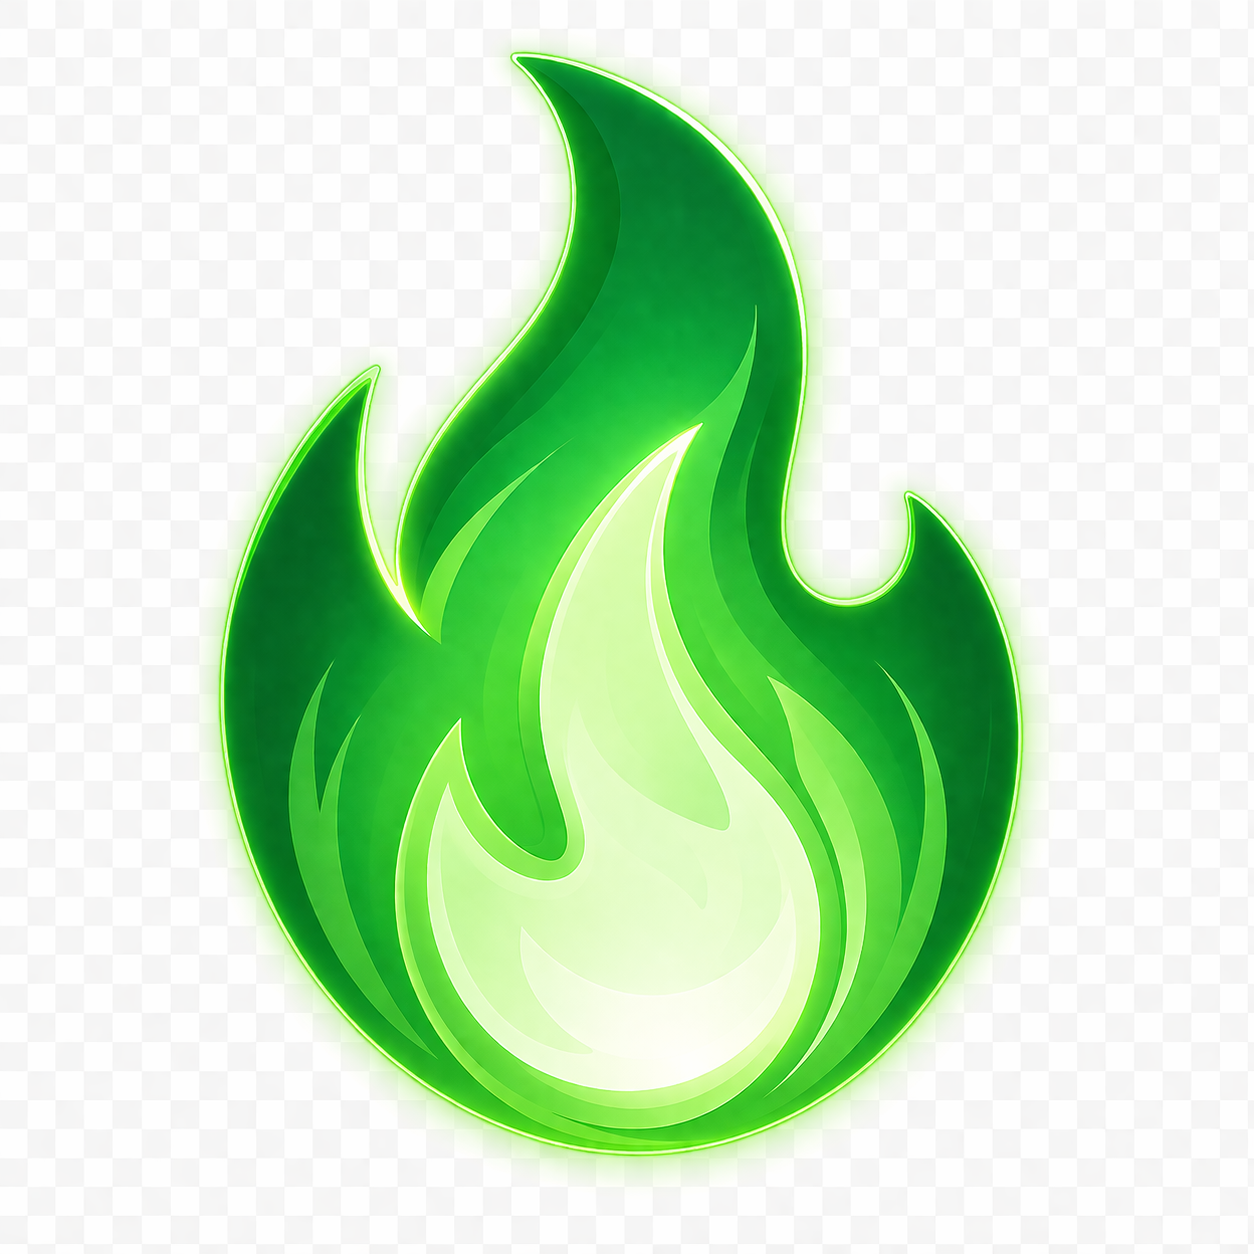
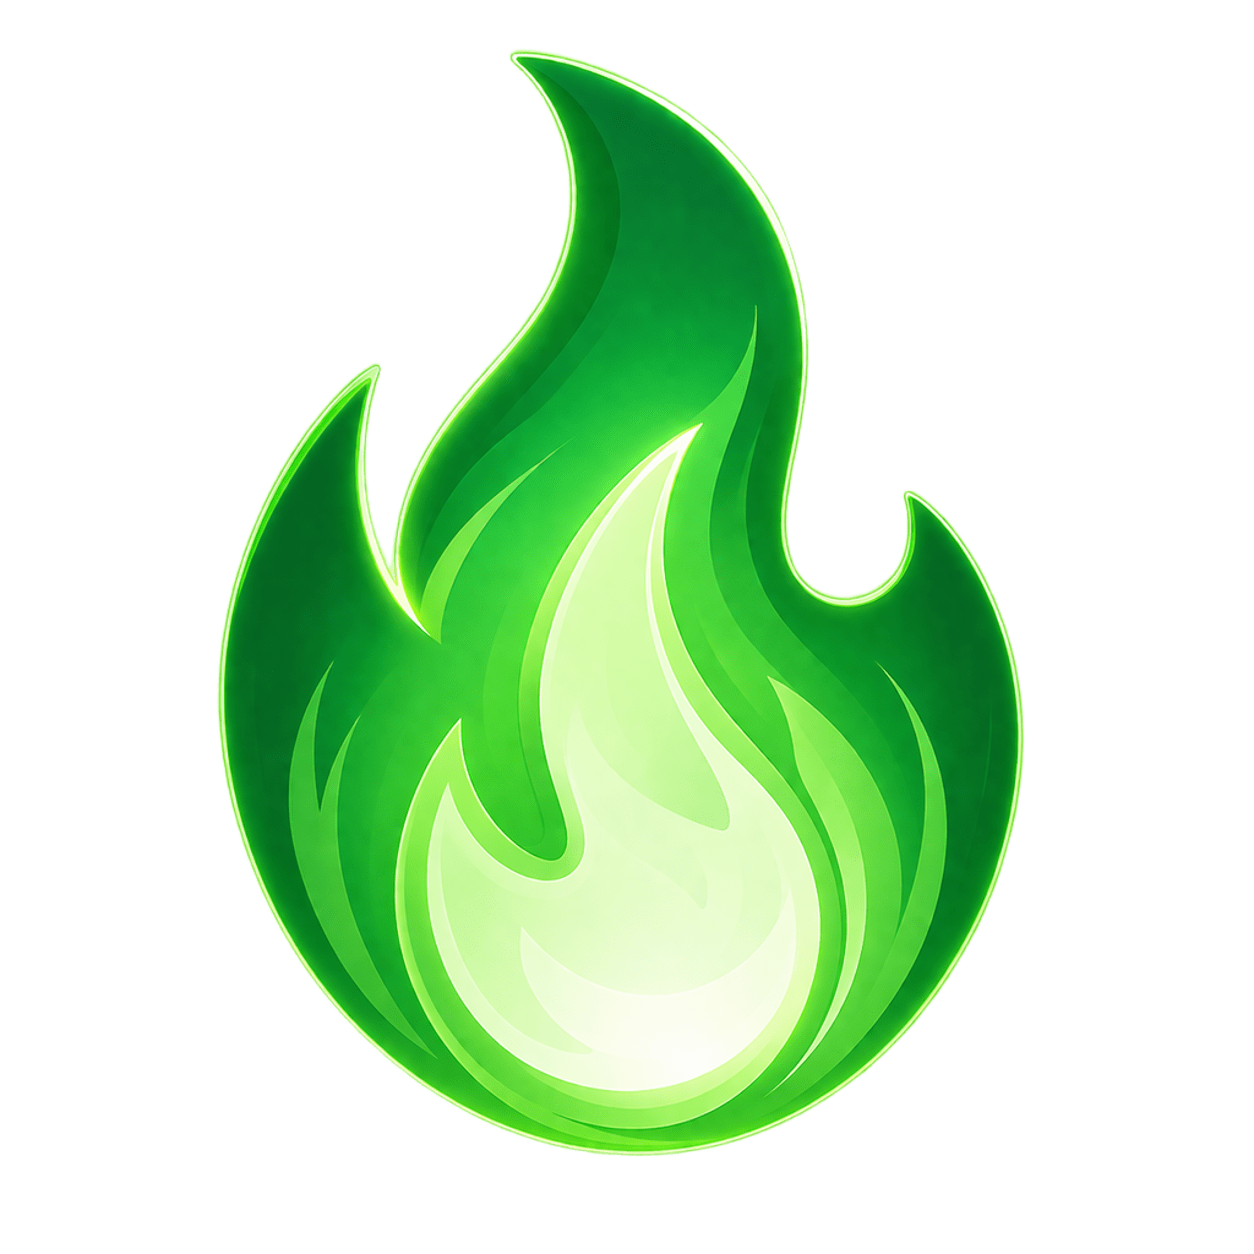
removed background on image

diff --git a/src/main/script.js b/src/main/script.js
@@ -865,9 +865,13 @@ function syncAcceptedTasksToUI() {
 async function loadTasks() {
   try {
     const response = await fetch(`${API_BASE}/tasks.php?action=available`);
+    if (!response.ok) {
+      const errorBody = await response.text();
+      throw new Error(`API error ${response.status}: ${errorBody}`);
+    }
     allTasks = await response.json();
     loadDailyTask();
-  } catch (error) { 
+  } catch (error) {
     console.error('Fehler beim Laden der Tasks:', error);
     // Fallback to JSON file if API fails
     try {